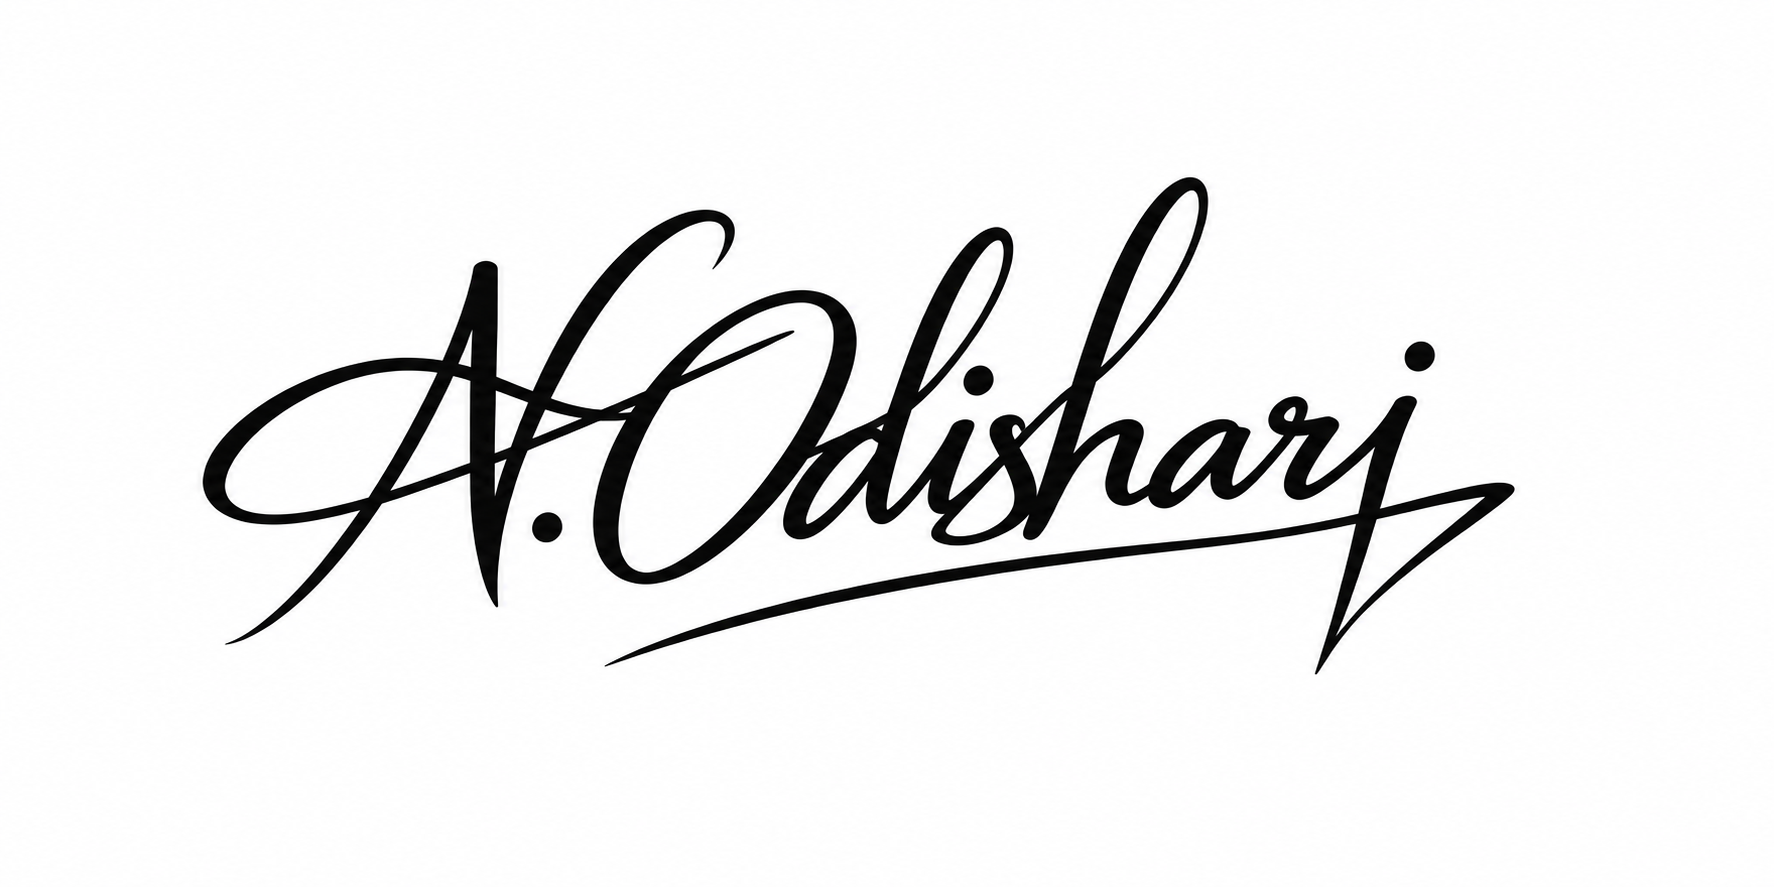
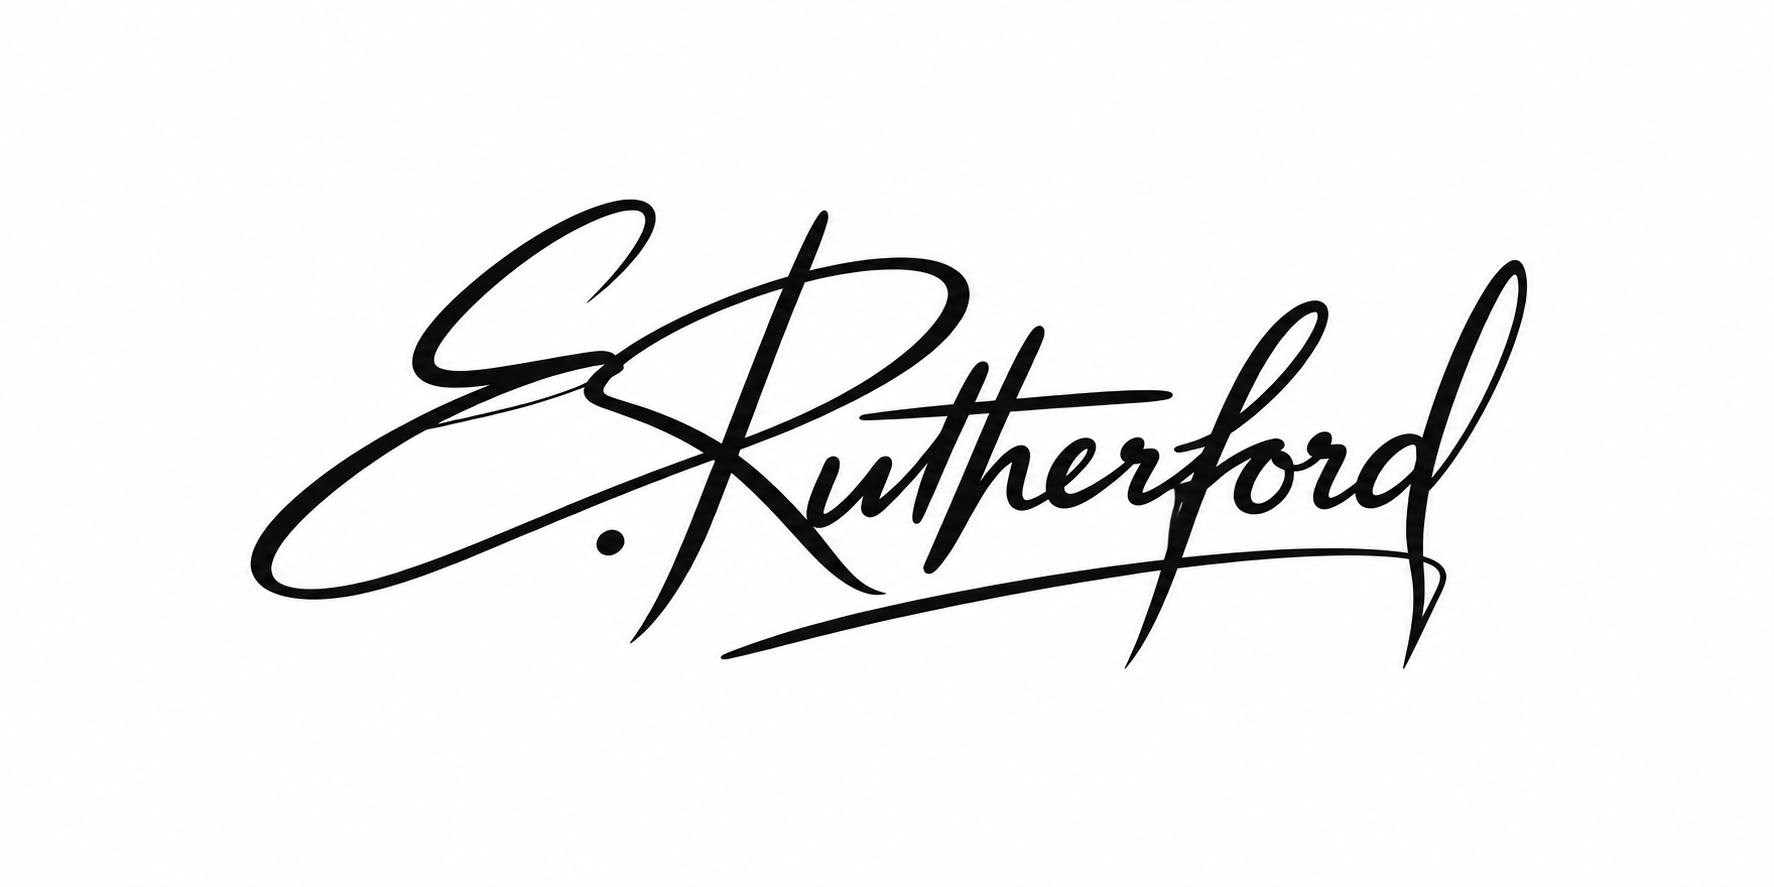
Use Elena Rutherford signature example

Changed region(s): [[0.093, 0.1826, 0.8681, 0.761], [0.155, 0.4262, 0.186, 0.4566], [0.124, 0.7001, 0.155, 0.7306]]

diff --git a/tools-website/src/components/Identity.jsx b/tools-website/src/components/Identity.jsx
@@ -9,7 +9,7 @@ const directions = [
 const examples = {
   name: {file: 'magic-name.png', alt: 'Natia — compact angular name logo example'},
   initials: {file: 'magic-initials.png', alt: 'N and O — woven serif initials example'},
-  signature: {file: 'magic-signature.png', alt: 'N. Odishari — interwoven Capital Lattice signature example'},
+  signature: {file: 'magic-signature.png', alt: 'E. Rutherford — interwoven Capital Lattice signature example'},
 };
 function savedNames() { try { return JSON.parse(readStored('l3v-logo-names', '{}')) || {}; } catch { return {}; } }
 const initial = text => new Intl.Segmenter(undefined, {granularity: 'grapheme'}).segment(text)[Symbol.iterator]().next().value?.segment || '';

diff --git a/tools-website/ARTWORK-EXAMPLES.md b/tools-website/ARTWORK-EXAMPLES.md
@@ -8,6 +8,6 @@ Original PNGs are copied without altering artwork or aspect ratio. Public inclus
 |---|---|---|
 | magic-name.png | compact-logos-001 / 32-hard-angular | d9f060f71712827fcbaf4f4a27d2b8445f0225f4f2836e3fc4cde41ec04a8085 |
 | magic-initials.png | lettering-matrix-001 / woven-serif | fa4053c17f804b578e2c3e7b3d4db98e7388481ec73e5fa0b8fa7dadd610f469 |
-| magic-signature.png | lettering-matrix-001 / sig-capital-lattice | 9c5435179a0ddbedc0532cc16849df428516100388f29b6ecf00e9d0f098477a |
+| magic-signature.png | Original signature practice / sig-capital-lattice (Elena Rutherford) | 4eab6f0deae3e7fd2cd9367c919fae2043eaa6da27be05be186ad943b7b4ce1f |
 
-Name example: Natia. Initials example: N/O. Signature example: N. Odishari (the original batch spelling). Selecting a category or typing a name does not regenerate these examples.
+Name example: Natia. Initials example: N/O. Signature example: E. Rutherford (Elena Rutherford). Selecting a category or typing a name does not regenerate these examples.
